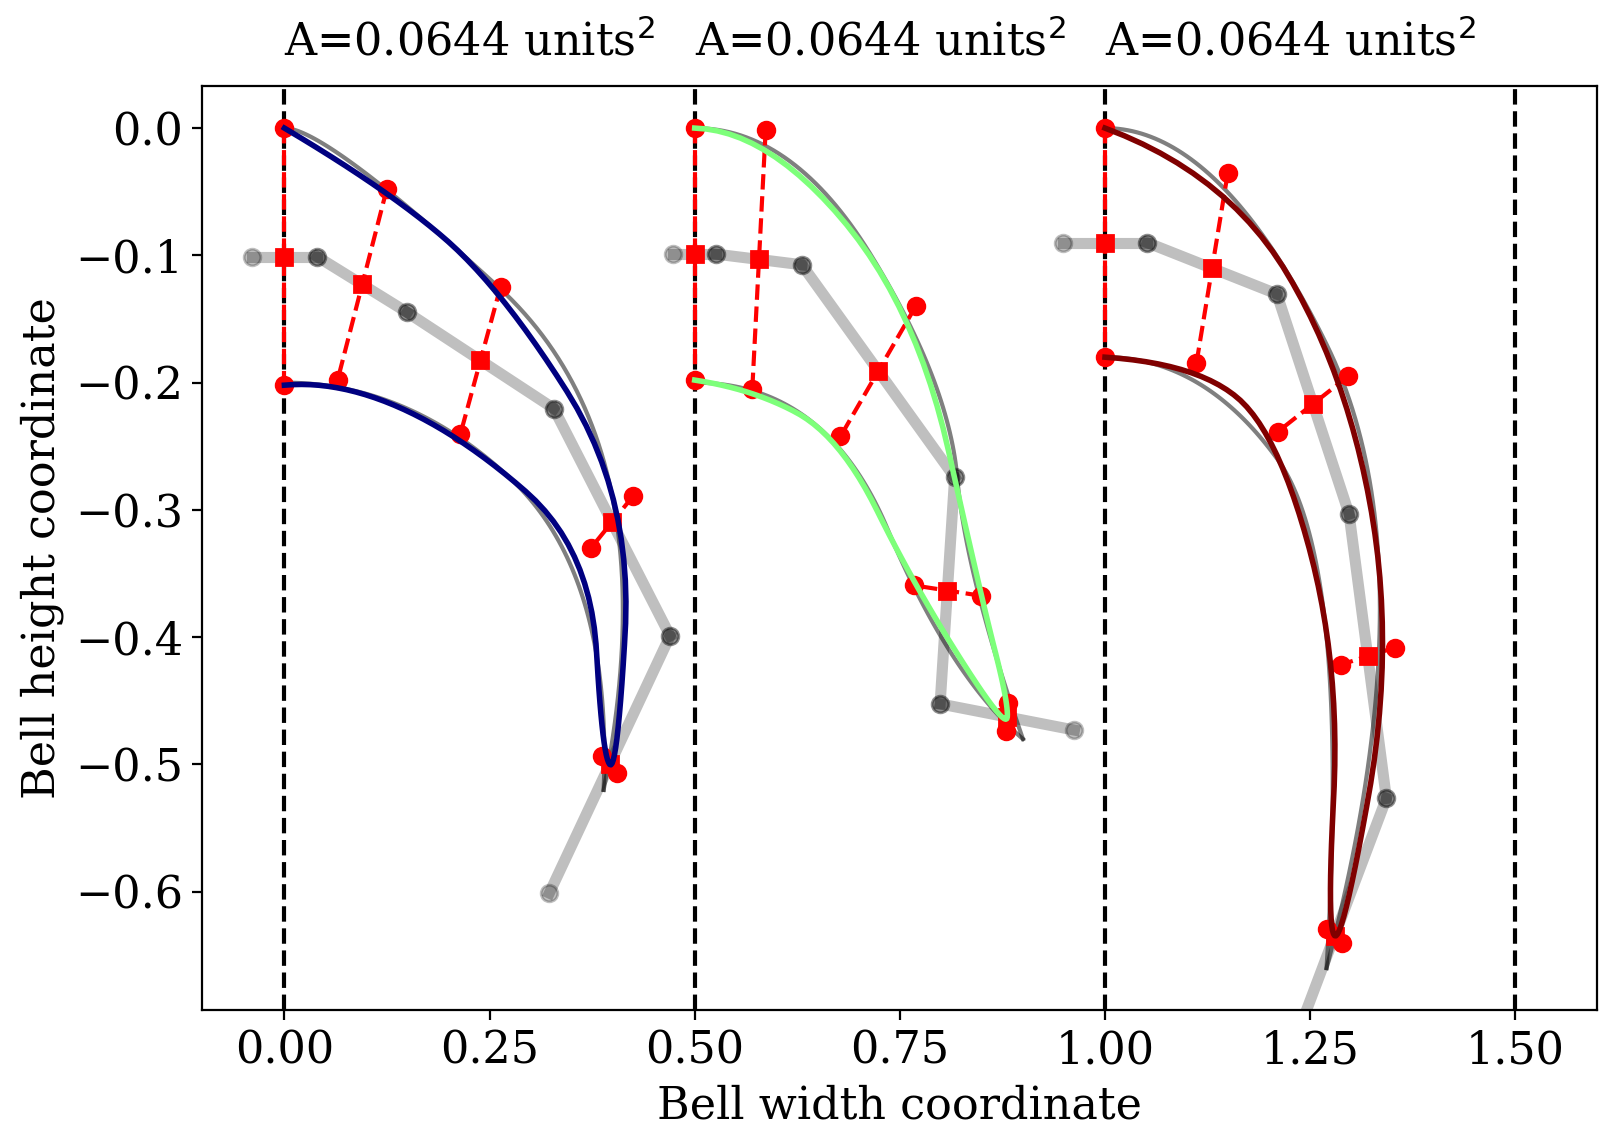
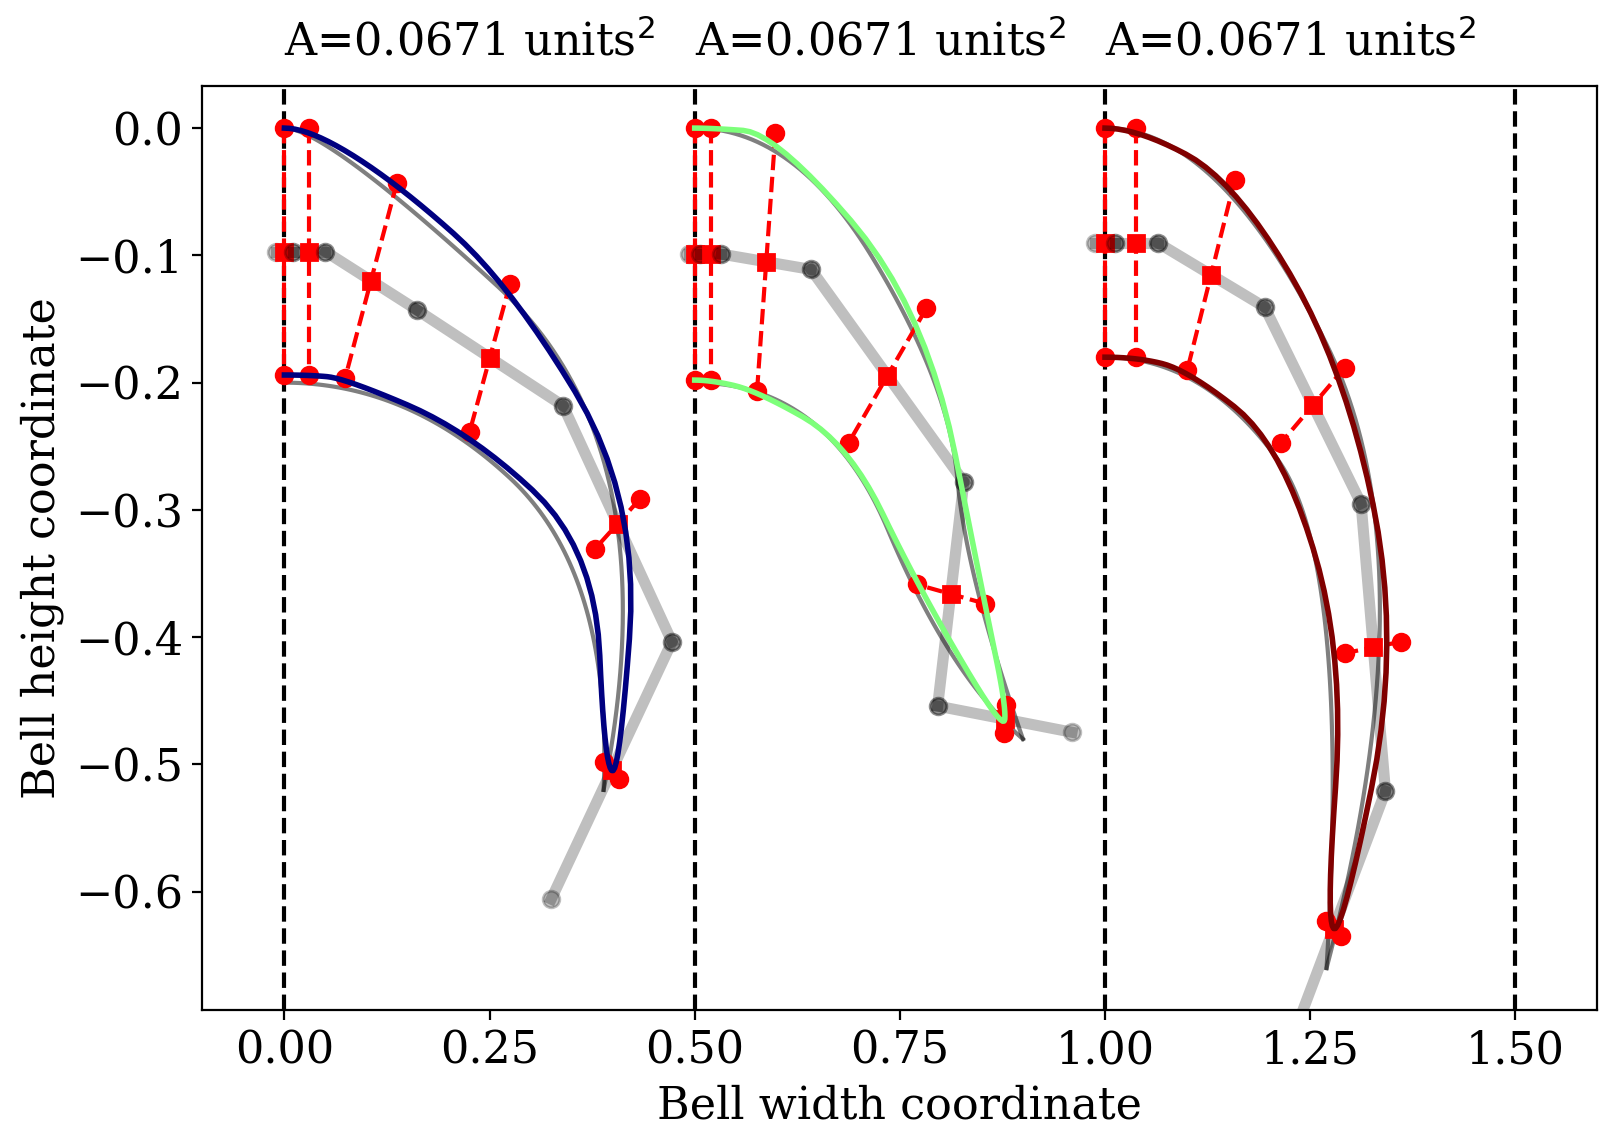
Final update to kinematics (Python only so far)

diff --git a/script_00_bellShapeSpline.py b/script_00_bellShapeSpline.py
@@ -313,17 +313,24 @@ def profileFromParams(length, halfThickness, theta, s=np.linspace(0, 1, 101),
 
 
 halfThicknesses = np.array([
-    [0.101, 0.099, 0.090],
-    [0.081, 0.102, 0.077],
-    [0.063, 0.069, 0.048],
+# [0.101, 0.099, 0.090],
+# [0.101, 0.099, 0.090],
+# [0.081, 0.102, 0.080],
+    [0.097, 0.099, 0.090],
+    [0.097, 0.099, 0.090],
+    [0.083, 0.102, 0.080],
+    [0.063, 0.071, 0.049],
 # [0.033, 0.031, 0.024],
-    [0.033, 0.041, 0.0338],
+    [0.0335, 0.042, 0.0345],
     [0.011, 0.011, 0.011],
 ])
 
 lengths = np.array([
-    [0.080, 0.052, 0.103],
-    [0.118, 0.105, 0.163],
+# [0.080, 0.052, 0.103],
+    [0.020, 0.013, 0.025],
+    [0.040, 0.026, 0.0515],
+# [0.118, 0.105, 0.163],
+    [0.12, 0.11, 0.14],
     [0.194, 0.250, 0.194],
     [0.228, 0.179, 0.228],
     [0.250, 0.165, 0.250],
@@ -331,13 +338,15 @@ lengths = np.array([
 
 thetas = np.array([
     [0., 0., 0.],
+    [0., 0., 0.],
 # [0.440, 0.147, 0.427],
 # [0.462, 0.831, 1.279],
 # [1.102, 1.570, 1.437],
 # [2.200, 0.125, 2.200],
-    [0.380, 0.080, 0.250],
-    [0.400, 0.731, 1.100],
-    [0.900, 1.670, 1.370],
+# [0.380, 0.080, 0.250],
+    [0.390, 0.11, 0.37],
+    [0.400, 0.731, 0.920],
+    [0.950, 1.75, 1.44],
     [2.200, 0.125, 2.100],
 ])
 
@@ -376,16 +385,36 @@ ref_Uedge = np.loadtxt("./dataset_01_medusae/data_Costello2020_Uedge.txt")
 ref_dist = np.loadtxt("./dataset_01_medusae/data_Costello2020_totalDistance.txt")
 ref_fin = np.loadtxt("./dataset_01_medusae/data_Costello2020_fineness.txt")
 
+# From the plot by Costello.
+tVals = np.array([0.04836558, 0.22848566, 0.41027352, 1.39926618, 1.57771848, 1.76617745])
+
 fig, ax = niceFig("Time [s]", "Total distance [mm]")
 ax.plot(ref_dist[:, 0], ref_dist[:, 1], "r-", lw=2)
+ylim = ax.get_ylim()
+ax.set_ylim(0, ylim[1])
+ax.set_xlim(0, ax.get_xlim()[1])
+ax.vlines(tVals, ylim[0], ylim[1], linestyle="dashed", color="k", alpha=0.5)
 
 fig, ax = niceFig("Time [s]", "Fineness")
 ax.plot(ref_fin[:, 0], ref_fin[:, 1], "r-", lw=2)
+ylim = ax.get_ylim()
+ax.set_ylim(0, ylim[1])
+ax.set_xlim(0, ax.get_xlim()[1])
+ax.vlines(tVals, 0, ylim[1], linestyle="dashed", color="k", alpha=0.5)
 
 fig, ax = niceFig("Time [s]", "Swimming speed, bell edge speed [mm/s]")
 ax.plot(ref_Uswim[:, 0], ref_Uswim[:, 1], "r-", lw=2, label="U$_{swim}$")
 ax.plot(ref_Uedge[:, 0], ref_Uedge[:, 1], "b-", lw=2, label="U$_{edge}$")
 ax.legend(ncol=2, bbox_to_anchor=(0.5, 1.01), loc="lower center")
+ylim = ax.get_ylim()
+ax.set_ylim(0, ylim[1])
+ax.set_xlim(0, ax.get_xlim()[1])
+ax.vlines(tVals, ylim[0], ylim[1], linestyle="dashed", color="k", alpha=0.5)
+
+# Compute the period in second, non-dimensionalise snapshot times to range (0, 1).
+period = tVals[3] - tVals[0]
+tVals /= period
+tVals -= tVals[0]
 
 # %% Create time series of the bell shape parameters for continuous motion.
 
@@ -393,13 +422,12 @@ ax.legend(ncol=2, bbox_to_anchor=(0.5, 1.01), loc="lower center")
 # to make sure the curves are continuous when going from t=1 to t=0 and to avoid
 # substantial overshooting.
 def smoothWithSpline(tf, yf, t):
-    tf = [tf[0], tf[0]+0.01, tf[1], tf[2], tf[-1]-0.5, tf[-1]-0.4, tf[-1]-0.15, tf[-1]]
+    tf = [tf[0], tf[0]+0.01, tf[1], tf[2], tf[-1]-0.67, tf[-1]-0.6, tf[-1]-0.25, tf[-1]]
     yf = [yf[0], yf[0], yf[1], yf[2], yf[-1], yf[-1], yf[-1], yf[-1]]
     spl = scipy.interpolate.splrep(tf, yf, s=0., k=2)
     return scipy.interpolate.splev(t, spl)
 
-# TODO digitise from Costello plot.
-timeVals = [0, 0.2, 0.4, 1.0]
+timeVals = [0, 0.13, 0.27, 1.0]
 
 fig, axes = plt.subplots(nrows=3, sharex=True, figsize=(8, 12))
 axes[-1].set_xlabel("t/T")
@@ -435,7 +463,7 @@ plt.savefig("./outputs/bellShapeEvolution_Costello2020_kinematicsParams.png", dp
 def thicknessTarget(x, Lfit, thkFit, thetaFit):
     dt = (x-0.5)/0.5*0.01
     xy1, cps1, area1 = profileFromParams(Lfit, thkFit+dt, thetaFit)
-    return abs(area1 - 0.0644)
+    return abs(area1 - 0.0671)
 
 
 def NewtRaph(func, x0, funcKwargs={}, Nmax=100, tol=5e-18):
@@ -513,7 +541,7 @@ class JellyfishPlot(object):
         return self.plotObjects
 
 
-animate = False
+animate = True
 
 # Set up the plot
 fig, ax = niceFig(figsize=(8, 10))
